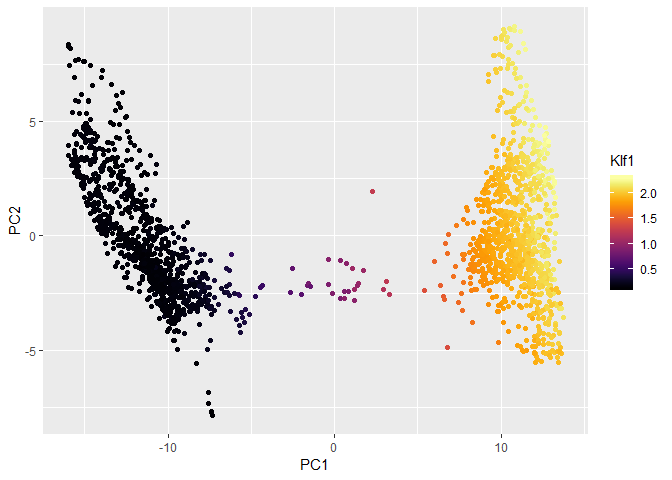
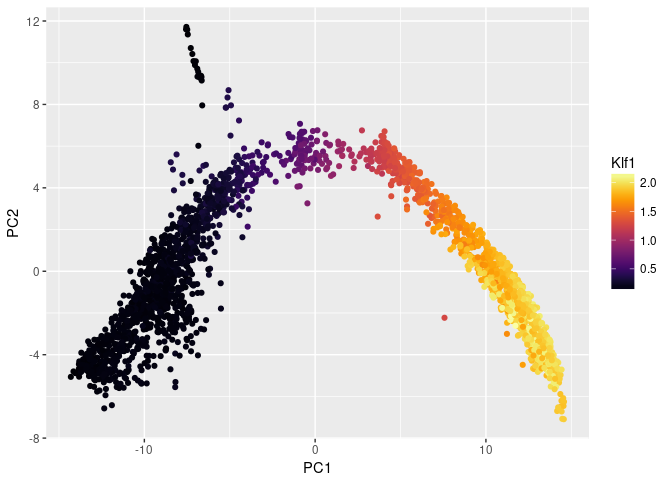
update tutorials

diff --git a/Rmagic/inst/examples/bonemarrow_tutorial.md b/Rmagic/inst/examples/bonemarrow_tutorial.md
@@ -1,6 +1,8 @@
 Rmagic Bone Marrow Tutorial
 ================
 
+true
+
 <!-- README.md is generated from README.Rmd. Please edit that file -->
 
 ## MAGIC (Markov Affinity-Based Graph Imputation of Cells)
@@ -64,29 +66,23 @@ library(Rmagic)
 
     ## Loading required package: Matrix
 
-    ## Warning: package 'Matrix' was built under R version 3.4.4
-
 ``` r
 library(ggplot2)
 library(readr)
 library(viridis)
 ```
 
-    ## Warning: package 'viridis' was built under R version 3.4.4
-
     ## Loading required package: viridisLite
-
-    ## Warning: package 'viridisLite' was built under R version 3.4.4
 
 ``` r
 library(phateR)
 ```
 
-    ##
+    ## 
     ## Attaching package: 'phateR'
 
     ## The following object is masked from 'package:Rmagic':
-    ##
+    ## 
     ##     library.size.normalize
 
 ### Loading data
@@ -115,7 +111,7 @@ bmmsc[1:5,1:10]
 ```
 
     ## # A tibble: 5 x 10
-    ##   `0610007C21Rik;Apr~ `0610007L01Rik` `0610007P08Rik;Rad2~ `0610007P14Rik`
+    ##   `0610007C21Rik;Apr… `0610007L01Rik` `0610007P08Rik;Rad2… `0610007P14Rik`
     ##                 <int>           <int>                <int>           <int>
     ## 1                   0               0                    0               0
     ## 2                   0               0                    0               1
@@ -136,14 +132,14 @@ bmmsc <- bmmsc[,keep_cols]
 # look at the distribution of library sizes
 ggplot() +
   geom_histogram(aes(x=rowSums(bmmsc)), bins=50) +
-  geom_vline(xintercept = 2000, color='red')
+  geom_vline(xintercept = 1000, color='red')
 ```
 
 ![](bonemarrow_tutorial_files/figure-gfm/unnamed-chunk-1-1.png)<!-- -->
 
 ``` r
-# keep cells with at least 2000 UMIs
-keep_rows <- rowSums(bmmsc) > 2000
+# keep cells with at least 1000 UMIs
+keep_rows <- rowSums(bmmsc) > 1000
 bmmsc <- bmmsc[keep_rows,]
 ```
 
@@ -171,7 +167,7 @@ We can plot the data before and after MAGIC to visualize the results.
 ``` r
 ggplot(bmmsc) +
   geom_point(aes(Mpo, Klf1, colour=Ifitm1)) +
-  scale_colour_viridis()
+  scale_colour_viridis(option="B")
 ```
 
 ![](bonemarrow_tutorial_files/figure-gfm/plot_raw-1.png)<!-- -->
@@ -186,7 +182,7 @@ about the gene-gene relationships.
 ``` r
 ggplot(bmmsc_MAGIC) +
   geom_point(aes(Mpo, Klf1, colour=Ifitm1)) +
-  scale_colour_viridis()
+  scale_colour_viridis(option="B")
 ```
 
 ![](bonemarrow_tutorial_files/figure-gfm/plot_magic-1.png)<!-- -->
@@ -205,7 +201,7 @@ steps.
 bmmsc_MAGIC <- magic(bmmsc, genes=c("Mpo", "Klf1", "Ifitm1"), t=4, init=bmmsc_MAGIC)
 ggplot(bmmsc_MAGIC) +
   geom_point(aes(Mpo, Klf1, colour=Ifitm1)) +
-  scale_colour_viridis()
+  scale_colour_viridis(option="B")
 ```
 
 ![](bonemarrow_tutorial_files/figure-gfm/unnamed-chunk-3-1.png)<!-- -->
@@ -225,23 +221,23 @@ as.data.frame(bmmsc_MAGIC)[1:5, 1:10]
 ```
 
     ##   0610007C21Rik;Apr3 0610007L01Rik 0610007P08Rik;Rad26l 0610007P14Rik
-    ## 1          0.1792195     0.5550954           0.06092393     0.3891946
-    ## 2          0.1273133     0.4096786           0.13282092     0.4268516
-    ## 3          0.1518990     0.6057446           0.07514413     0.4341140
-    ## 4          0.1186488     0.4098970           0.12670578     0.4156248
-    ## 5          0.1650279     0.5837784           0.06048088     0.4183659
+    ## 1          0.1518517     0.4808969           0.05179379     0.3415315
+    ## 2          0.1230258     0.3904692           0.12708682     0.3880762
+    ## 3          0.1344016     0.5496261           0.06617484     0.3745274
+    ## 4          0.1132422     0.3812295           0.11713295     0.3683106
+    ## 5          0.1417958     0.4637729           0.04572850     0.3465252
     ##   0610007P22Rik 0610009B22Rik 0610009D07Rik 0610009O20Rik
-    ## 1    0.02933742    0.05873117    0.07909602     0.1881641
-    ## 2    0.04131681    0.08353999    0.12061873     0.3906472
-    ## 3    0.02539456    0.06417888    0.05789454     0.1947493
-    ## 4    0.03749442    0.07662827    0.10214198     0.3869261
-    ## 5    0.02955924    0.05542874    0.05948475     0.1912546
+    ## 1    0.02452145    0.05066031    0.06728059     0.1611080
+    ## 2    0.04026323    0.07548813    0.11778619     0.3763095
+    ## 3    0.02323954    0.05561339    0.05379475     0.1802045
+    ## 4    0.03597300    0.06506830    0.08923059     0.3736334
+    ## 5    0.02303185    0.05190157    0.05275807     0.1621462
     ##   0610010F05Rik;mKIAA1841;Kiaa1841 0610010K14Rik;Rnasek
-    ## 1                       0.03648628             1.174787
-    ## 2                       0.03764984             1.084359
-    ## 3                       0.04473963             1.136657
-    ## 4                       0.03436419             1.098742
-    ## 5                       0.03893060             1.150368
+    ## 1                       0.03023858            1.0447754
+    ## 2                       0.03823837            0.9875507
+    ## 3                       0.04074101            1.0408079
+    ## 4                       0.03201622            1.0149211
+    ## 5                       0.02737464            0.9940195
 
 ### Visualizing MAGIC values on PCA
 
@@ -257,12 +253,16 @@ ggplot(bmmsc_MAGIC_PCA) +
 
 ![](bonemarrow_tutorial_files/figure-gfm/run_pca-1.png)<!-- -->
 
+``` r
+ggsave('BMMSC_data_R_pca_colored_by_magic.png', width=5, height=5)
+```
+
 ### Visualizing MAGIC values on PHATE
 
 We can visualize the results of MAGIC on PHATE as follows.
 
 ``` r
-bmmsc_PHATE <- phate(bmmsc)
+bmmsc_PHATE <- phate(bmmsc, k=4, a=100, t=20)
 ggplot(bmmsc_PHATE) +
   geom_point(aes(x=PHATE1, y=PHATE2, color=bmmsc_MAGIC$result$Klf1)) +
   scale_color_viridis(option="B") +

diff --git a/Rmagic/inst/examples/emt_tutorial.md b/Rmagic/inst/examples/emt_tutorial.md
@@ -1,6 +1,8 @@
 Rmagic EMT Tutorial
 ================
 
+true
+
 <!-- README.md is generated from README.Rmd. Please edit that file -->
 
 ## MAGIC (Markov Affinity-Based Graph Imputation of Cells)
@@ -76,11 +78,11 @@ library(viridis)
 library(phateR)
 ```
 
-    ##
+    ## 
     ## Attaching package: 'phateR'
 
     ## The following object is masked from 'package:Rmagic':
-    ##
+    ## 
     ##     library.size.normalize
 
 ### Loading data
@@ -113,42 +115,54 @@ data[1:5,1:10]
     ## 5         0           0     0          0     0         0     0           0
     ## # ... with 2 more variables: A4GALT <int>, AAAS <int>
 
-First, we need to remove lowly expressed genes and cells with small
-library size.
+First, we need to remove lowly expressed genes.
 
 ``` r
 # keep genes expressed in at least 10 cells
 keep_cols <- colSums(data > 0) > 10
 data <- data[,keep_cols]
+```
+
+Ordinarily, we would remove cells with small library sizes. In this
+dataset, it has already been done; however, if you wanted to do that,
+you could do it with the code below.
+
+``` r
 # look at the distribution of library sizes
 ggplot() +
   geom_histogram(aes(x=rowSums(data)), bins=50) +
-  geom_vline(xintercept = 3000, color='red')
+  geom_vline(xintercept = 1000, color='red')
 ```
 
-![](emt_tutorial_files/figure-gfm/unnamed-chunk-1-1.png)<!-- -->
+![](emt_tutorial_files/figure-gfm/libsize_histogram-1.png)<!-- -->
 
 ``` r
-# keep cells with at least 3000 UMIs and at most 15000
-keep_rows <- rowSums(data) > 3000 & rowSums(data) < 15000
-data <- data[keep_rows,]
+if (FALSE) {
+  # keep cells with at least 1000 UMIs and at most 15000
+  keep_rows <- rowSums(data) > 1000 & rowSums(data) < 15000
+  data <- data[keep_rows,]
+}
 ```
 
-We should library size normalize and transform the data prior to MAGIC.
-Many people use a log transform, which requires adding a “pseudocount”
-to avoid log(0). We square root instead, which has a similar form but
-doesn’t suffer from instabilities at zero.
+We should library size normalize the data prior to MAGIC. Often we also
+transform the data with either log or square root. The log transform is
+commonly used, which requires adding a “pseudocount” to avoid log(0). We
+normally square root instead, which has a similar form but doesn’t
+suffer from instabilities at zero. For this dataset, though, it is not
+necessary as the distribution of gene expression is not too extreme.
 
 ``` r
 data <- library.size.normalize(data)
-data <- sqrt(data)
+if (FALSE) {
+  data <- sqrt(data)
+}
 ```
 
 ### Running MAGIC
 
 Running MAGIC is as simple as running the `magic` function. Because this
-dataset is rather large, we can increase `k` from the default of 5 up to
-15.
+dataset is rather large, we can increase `k` from the default of 10 up
+to 15.
 
 ``` r
 # run MAGIC
@@ -194,18 +208,18 @@ data_MAGIC <- magic(data, k=15, genes="all_genes", init=data_MAGIC)
 as.data.frame(data_MAGIC)[1:5, 1:10]
 ```
 
-    ##          A1BG   A1BG-AS1       A2ML1     A4GALT      AAAS      AACS
-    ## 1 0.001652799 0.03181386 0.008611862 0.01352016 0.1310461 0.2214583
-    ## 2 0.001712522 0.03251830 0.010301061 0.01520513 0.1290344 0.2226633
-    ## 3 0.001666287 0.03232608 0.010190187 0.01487386 0.1291938 0.2224736
-    ## 4 0.001909803 0.03766258 0.029331208 0.02878727 0.1084993 0.2373691
-    ## 5 0.001706013 0.03219870 0.009911144 0.01484650 0.1293207 0.2219350
+    ##          A1BG   A1BG-AS1       A2ML1      A4GALT      AAAS      AACS
+    ## 1 0.001854893 0.02881591 0.008900173 0.012437242 0.1272436 0.2203742
+    ## 2 0.001133693 0.03286448 0.011011072 0.006169585 0.1264281 0.2170346
+    ## 3 0.002097424 0.02698868 0.008464190 0.013413017 0.1277215 0.2207171
+    ## 4 0.003076367 0.03379555 0.019677135 0.017580554 0.1052129 0.2326787
+    ## 5 0.001704564 0.02785588 0.007650259 0.010583328 0.1302630 0.2196815
     ##        AADAT     AAED1     AAGAB      AAK1
-    ## 1 0.03053407 0.1472675 0.2744654 0.5680616
-    ## 2 0.02966139 0.1476464 0.2729096 0.5690817
-    ## 3 0.02996176 0.1469537 0.2727705 0.5709182
-    ## 4 0.02529005 0.1420828 0.2591433 0.6070924
-    ## 5 0.02984316 0.1473383 0.2727566 0.5681089
+    ## 1 0.03026436 0.1445250 0.2745069 0.6526160
+    ## 2 0.02708794 0.1486098 0.2743147 0.6408745
+    ## 3 0.03088562 0.1448863 0.2745518 0.6522863
+    ## 4 0.02384704 0.1466735 0.2638890 0.6601329
+    ## 5 0.03078958 0.1448066 0.2767862 0.6450917
 
 ### Visualizing MAGIC values on PCA
 
@@ -226,22 +240,4 @@ ggplot(data_MAGIC_PCA) +
 
 ``` r
 ggsave('EMT_data_R_pca_colored_by_magic.png', width=5, height=5)
-```
-
-### Visualizing MAGIC values on PHATE
-
-We can visualize the results of MAGIC on PHATE as follows.
-
-``` r
-data_PHATE <- phate(data, k=15)
-ggplot(data_PHATE) +
-  geom_point(aes(x=PHATE1, y=PHATE2, color=data_MAGIC$result$VIM)) +
-  scale_color_viridis(option="B") +
-  labs(color="VIM")
-```
-
-![](emt_tutorial_files/figure-gfm/run_phate-1.png)<!-- -->
-
-``` r
-ggsave('EMT_data_R_phate_colored_by_magic.png', width=5, height=5)
 ```
